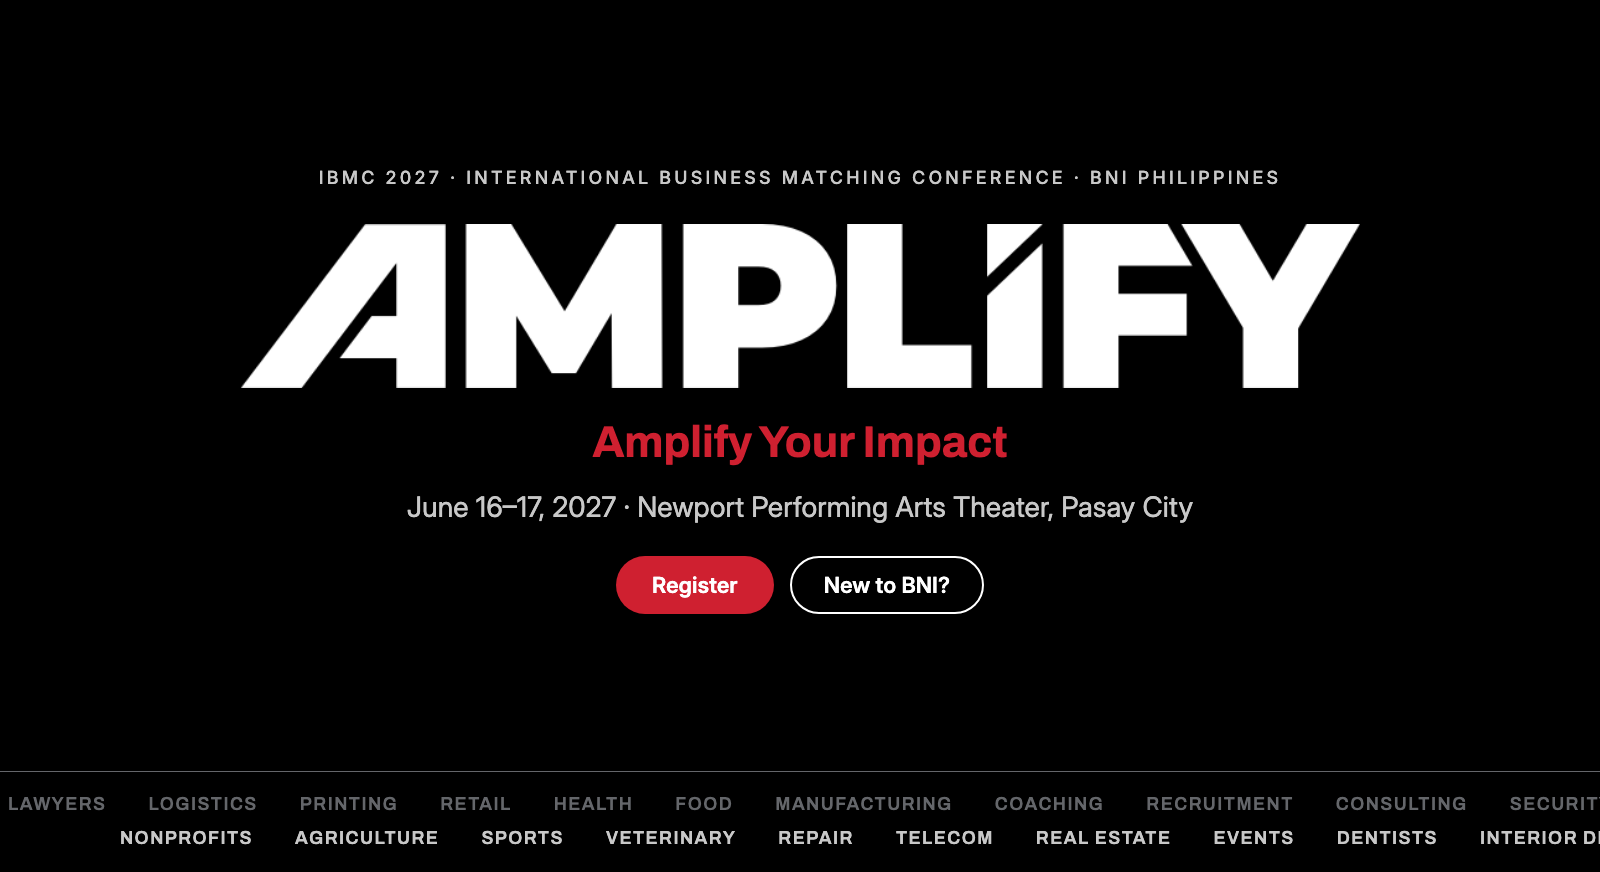
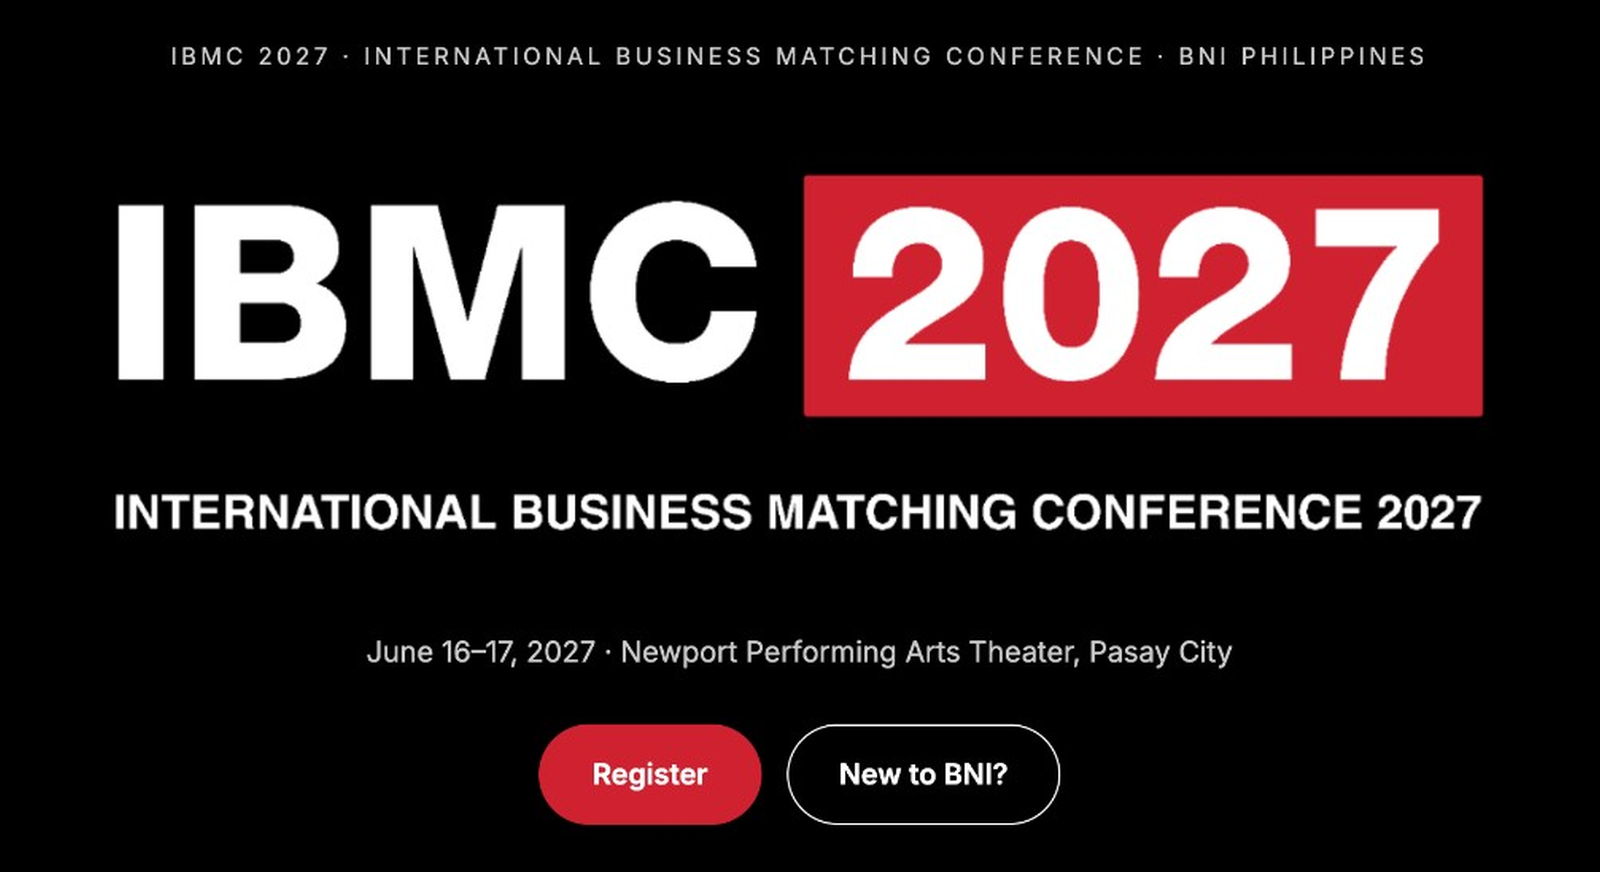
Show the IBMC 2027 lockup on the site, in link previews, and in email headers.

diff --git a/index.html b/index.html
@@ -12,14 +12,14 @@
     <meta property="og:site_name" content="IBMC 2027" />
     <meta property="og:title" content="IBMC 2027 · AMPLIFY" />
     <meta property="og:description" content="Amplify Your Impact. IBMC 2027 is June 16–17 at Newport Performing Arts Theater, Pasay City." />
-    <meta property="og:image" content="__SITE_URL__/og-image.png?v=2" />
+    <meta property="og:image" content="__SITE_URL__/og-image.png?v=3" />
     <meta property="og:image:width" content="1600" />
     <meta property="og:image:height" content="872" />
     <!-- Twitter -->
     <meta name="twitter:card" content="summary_large_image" />
     <meta name="twitter:title" content="IBMC 2027 · AMPLIFY" />
     <meta name="twitter:description" content="Amplify Your Impact. IBMC 2027 is June 16–17 at Newport Performing Arts Theater, Pasay City." />
-    <meta name="twitter:image" content="__SITE_URL__/og-image.png?v=2" />
+    <meta name="twitter:image" content="__SITE_URL__/og-image.png?v=3" />
     <!-- Meta Pixel Code -->
     <script>
       !function(f,b,e,v,n,t,s)
@@ -41,7 +41,7 @@
         src="https://www.facebook.com/tr?id=898755796530005&ev=PageView&noscript=1" alt="" />
     </noscript>
     <!-- Fallback for Viber: first image on page (no JS execution) -->
-    <img src="/og-image.png?v=2" alt="IBMC 2027 · Amplify Your Impact" width="1600" height="872" style="position:absolute;width:1px;height:1px;opacity:0.01;pointer-events:none" fetchpriority="high" />
+    <img src="/og-image.png?v=3" alt="IBMC 2027" width="1600" height="872" style="position:absolute;width:1px;height:1px;opacity:0.01;pointer-events:none" fetchpriority="high" />
     <div id="root"></div>
     <script type="module" src="/src/main.tsx"></script>
   </body>

diff --git a/src/AmplifyHome.tsx b/src/AmplifyHome.tsx
@@ -471,6 +471,7 @@ function BeforeAfter() {
   );
 }
 
+const SHOW_MOVING_AMPLIFY = false;
 const AMPLIFY_LINES = ["Your Impact", "Relationships", "Your Business", "Your Influence", "as a Team", "Together"];
 
 function AmplifyCycle() {
@@ -564,15 +565,16 @@ export default function AmplifyHome() {
             IBMC 2027 · International Business Matching Conference · BNI Philippines
           </p>
           <h1 className="m-0 w-full py-6">
+            {/* Temporary lockup until the AMPLIFY logo launches in January. */}
             <img
-              src="/assets/amplify-logo-white.png"
-              alt="AMPLIFY"
-              width={904}
-              height={132}
-              className="mx-auto block h-auto w-full max-w-[900px]"
+              src="/assets/ibmc-2027-logo.png?v=3"
+              alt="IBMC 2027"
+              width={944}
+              height={263}
+              className="mx-auto block h-auto w-full max-w-[780px]"
             />
           </h1>
-          <AmplifyCycle />
+          {SHOW_MOVING_AMPLIFY && <AmplifyCycle />}
           <p className="m-0 text-[clamp(16px,1.6vw,20px)] text-[#C8C8C8]">
             June 16–17, 2027 · Newport Performing Arts Theater, Pasay City
           </p>

diff --git a/server/verify-reminders.js b/server/verify-reminders.js
@@ -272,14 +272,14 @@ const customEmail = previewTemplate({
   body: "Hi {{first_name}}, {{amount}} is due {{due_date}}. Pay: {{pay_url}}",
   systemKey: "",
 });
-assert.match(customEmail.html, /amplify-logo-white\.png/);
+assert.match(customEmail.html, /ibmc-2027-logo\.png/);
 assert.match(customEmail.html, /IBMC 2027 payment reminder/);
 assert.match(customEmail.html, /Hi Maria, ₱2,000 is due Mar 15, 2027\. Pay: https:\/\/ibmcph\.com\/pay\/IBMC-2048/);
 assert.match(customEmail.html, /Pay this installment/);
 assert.match(customEmail.html, /Amplify others\. Get amplified\./);
 assert.equal(customEmail.html.includes("Open my QR ticket"), false);
 const plainEmail = previewTemplate({ channel: "email", subject: "Hello", body: "Hi {{first_name}}", systemKey: "" });
-assert.match(plainEmail.html, /amplify-logo-white\.png/);
+assert.match(plainEmail.html, /ibmc-2027-logo\.png/);
 assert.equal(plainEmail.html.includes("Pay this installment"), false);
 const firstMoverReminder = renderInstallmentReminder({
   registration: { full_name: "Maria Santos", product_name: "First Mover", product_code: "first_mover", currency: "PHP", reference: "IBMC-2048", payment_plan: "installment", installment_count: 7 },

diff --git a/server/templates.js b/server/templates.js
@@ -2,12 +2,11 @@ import QRCode from "qrcode";
 import { daysLabel, formatLongDate, formatMoney } from "./time.js";
 
 const EVENT = "June 16–17, 2027 · Newport Performing Arts Theater, Pasay City";
-const AMPLIFY_LOGO = "https://ibmcph.com/assets/amplify-logo-white.png";
+const EVENT_LOGO = "https://ibmcph.com/assets/ibmc-2027-logo.png?v=3";
 
 function brandHeader() {
   return `<tr><td style="background:#0E0E10;padding:22px 32px 18px;">
-          <div style="font-family:Arial,sans-serif;font-size:13px;font-weight:700;letter-spacing:0.16em;color:#FFFFFF;">IBMC 2027</div>
-          <img src="${AMPLIFY_LOGO}" width="240" height="35" alt="AMPLIFY" style="display:block;margin-top:10px;border:0;width:240px;max-width:100%;height:auto;">
+          <img src="${EVENT_LOGO}" width="320" height="89" alt="IBMC 2027" style="display:block;border:0;width:320px;max-width:100%;height:auto;">
         </td></tr>
         <tr><td style="height:4px;background:#D0202E;font-size:0;line-height:0;">&nbsp;</td></tr>`;
 }
